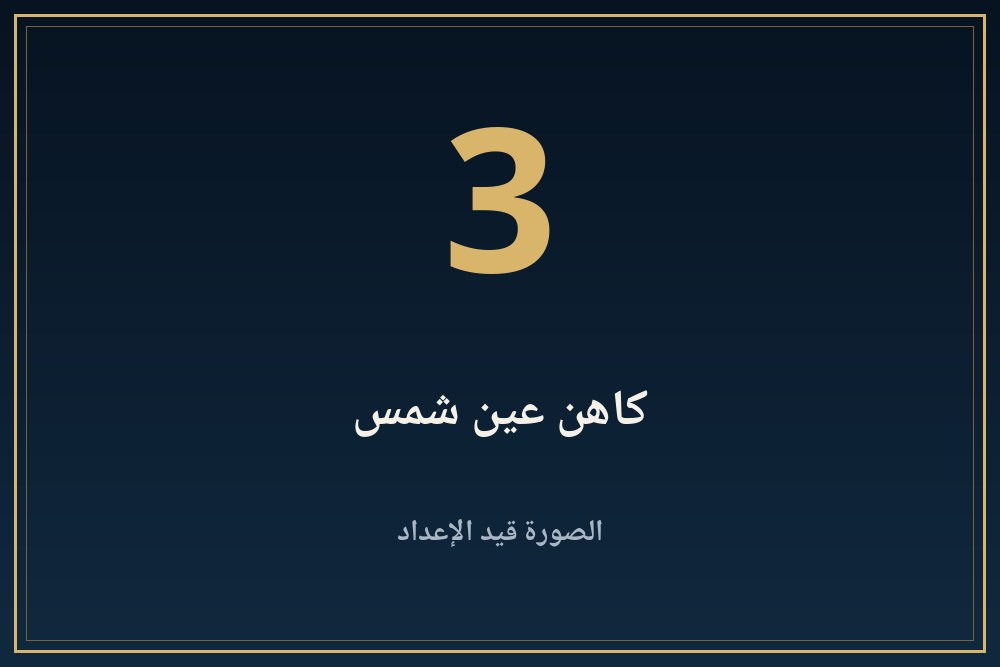
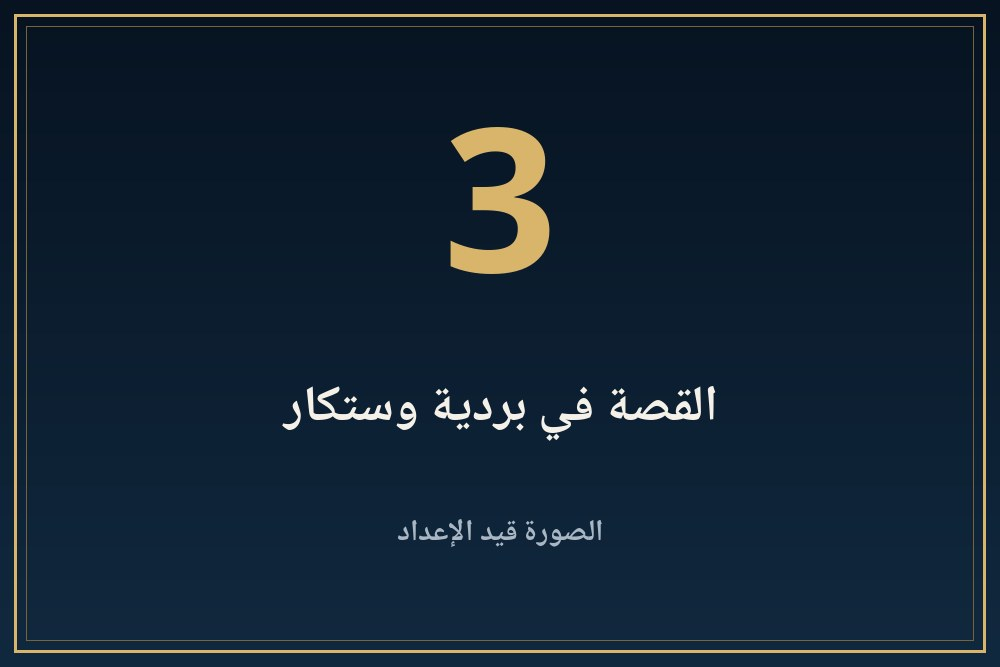
King 024: rebuilt from updated content (placeholders, audio pending)

Changed region(s): [[0.279, 0.5697, 0.713, 0.6597]]

diff --git a/kings/024-awsrkaf/index.html b/kings/024-awsrkaf/index.html
@@ -324,7 +324,7 @@ html[dir=ltr] #panav.open,#pash[dir=ltr] #panav.open{border-right:0!important;bo
 <div class="row"><span class="bdg v">موثّق</span><span>مذكور في مصدر مرقّم يمكن فتحه من قسم المراجع.</span></div>
 <div class="row"><span class="bdg d">محل خلاف</span><span>الصفحة نفسها تذكر أن الباحثين أو المصادر مختلفون فيه.</span></div>
 <div class="row"><span class="bdg u">لم يُتحقق منه</span><span>الصفحة تذكر أنه من مصدر واحد ولم يُتحقق منه في مصدر ثانٍ.</span></div></div>
-<div class="band" aria-hidden="true"></div><details class="acc k1" id="s1"><summary><img class="bnr" src="banners/b01.jpg?v=1" alt="" width="1000" height="667"><span class="n">1</span><span class="t">من هو وسركاف؟</span><span class="ch"></span></summary><div class="body"><button class="lbtn" type="button" disabled aria-disabled="true" style="opacity:.55;cursor:default"><svg viewBox="0 0 24 24" fill="currentColor" aria-hidden="true"><path d="M7 4.5v15a1 1 0 001.5.86l12-7.5a1 1 0 000-1.72l-12-7.5A1 1 0 007 4.5z"/></svg><span>التعليق الصوتي قريبًا</span></button><p><span class="bdg v">موثّق</span> يقول سليم حسن (ج1 ص251) إن الأسرة الخامسة نشأت من نفوذ كهنة عين شمس، وإن خنتكاوس ابنة منكاورع ادعت الملك بصفتها ابنة ملك وتزوجت من علية القوم ورزقت وسركاف. ويقول (ص253-254) إن المعلومات عنه قليلة خارج بردية وستكار، وإنه حكم نحو سبع سنين.<sup><a href="#r1">[1]</a></sup></p></div></details><details class="acc k2" id="s2"><summary><img class="bnr" src="banners/b02.jpg?v=1" alt="" loading="lazy" width="1000" height="667"><span class="n">2</span><span class="t">رأس الجرانيت الوردي</span><span class="ch"></span></summary><div class="body"><button class="lbtn" type="button" disabled aria-disabled="true" style="opacity:.55;cursor:default"><svg viewBox="0 0 24 24" fill="currentColor" aria-hidden="true"><path d="M7 4.5v15a1 1 0 001.5.86l12-7.5a1 1 0 000-1.72l-12-7.5A1 1 0 007 4.5z"/></svg><span>التعليق الصوتي قريبًا</span></button><p><span class="bdg v">موثّق</span> يقول سليم حسن (ص253-254) إن رأسا ضخما من الجرانيت الوردي وُجد في سقارة هو «المثل الوحيد لتمثال أكبر من الطبيعة في الدولة القديمة».<sup><a href="#r1">[1]</a></sup></p></div></details><details class="acc k3" id="s3"><summary><img class="bnr" src="banners/b03.jpg?v=1" alt="" loading="lazy" width="1000" height="667"><span class="n">3</span><span class="t">كاهن عين شمس</span><span class="ch"></span></summary><div class="body"><button class="lbtn" type="button" disabled aria-disabled="true" style="opacity:.55;cursor:default"><svg viewBox="0 0 24 24" fill="currentColor" aria-hidden="true"><path d="M7 4.5v15a1 1 0 001.5.86l12-7.5a1 1 0 000-1.72l-12-7.5A1 1 0 007 4.5z"/></svg><span>التعليق الصوتي قريبًا</span></button><p><span class="bdg d">محل خلاف</span> يذكر سليم حسن (ص253-254) أنه كان كاهنا أعلى لعين شمس وأن حجر بالرمو يسجل أنه وهب أراضي لمعبد رع وقرابين الأعياد، وبنى محرابا في بوتو. وهذا ما قرأناه عنده وحده.<sup><a href="#r1">[1]</a></sup></p></div></details><details class="acc k4" id="s4"><summary><img class="bnr" src="banners/b04.jpg?v=1" alt="" loading="lazy" width="1000" height="667"><span class="n">4</span><span class="t">وصية نكعنخ</span><span class="ch"></span></summary><div class="body"><button class="lbtn" type="button" disabled aria-disabled="true" style="opacity:.55;cursor:default"><svg viewBox="0 0 24 24" fill="currentColor" aria-hidden="true"><path d="M7 4.5v15a1 1 0 001.5.86l12-7.5a1 1 0 000-1.72l-12-7.5A1 1 0 007 4.5z"/></svg><span>التعليق الصوتي قريبًا</span></button><p><span class="bdg v">موثّق</span> يذكر سليم حسن (ص253-254) نقش نكعنخ، كاهن حتحور، ووصيته بتقسيم المنح بين أحد عشر فردا من أسرته.<sup><a href="#r1">[1]</a></sup></p></div></details><details class="acc k1" id="s5"><summary><img class="bnr" src="banners/b05.jpg?v=1" alt="" loading="lazy" width="1000" height="667"><span class="n">5</span><span class="t">أصل الأسرة: من قال ماذا؟</span><span class="ch"></span></summary><div class="body"><button class="lbtn" type="button" disabled aria-disabled="true" style="opacity:.55;cursor:default"><svg viewBox="0 0 24 24" fill="currentColor" aria-hidden="true"><path d="M7 4.5v15a1 1 0 001.5.86l12-7.5a1 1 0 000-1.72l-12-7.5A1 1 0 007 4.5z"/></svg><span>التعليق الصوتي قريبًا</span></button><p><span class="bdg d">محل خلاف</span> أصل الأسرة الخامسة وعلاقتها بخنتكاوس: سليم حسن (ص251) ينسب وسركاف لخنتكاوس. ويقول صالح (ص199) إن لقب خنتكاوس «أم ملك الصعيد والدلتا». فلا يوجد نص قرأناه يحسم الأمر.<sup><a href="#r1">[1]</a><a href="#r2">[2]</a></sup></p></div></details><details class="acc k2" id="s6"><summary><img class="bnr" src="banners/b06.jpg?v=1" alt="" loading="lazy" width="1000" height="667"><span class="n">6</span><span class="t">ما لا نعرفه</span><span class="ch"></span></summary><div class="body"><button class="lbtn" type="button" disabled aria-disabled="true" style="opacity:.55;cursor:default"><svg viewBox="0 0 24 24" fill="currentColor" aria-hidden="true"><path d="M7 4.5v15a1 1 0 001.5.86l12-7.5a1 1 0 000-1.72l-12-7.5A1 1 0 007 4.5z"/></svg><span>التعليق الصوتي قريبًا</span></button><p><span class="bdg u">لم يُتحقق منه</span> لا نعرف تفاصيل هرمه ولا أحداث عهده ولا مكان معبد الشمس الذي نُسب إليه في المصادر التي قرأناها.</p></div></details><details class="acc k4" id="refs"><summary><img class="bnr" src="banners/b07.jpg?v=1" alt="" loading="lazy" width="1000" height="667"><span class="n">7</span><span class="t">المراجع</span><span class="ch"></span></summary><div class="body"><button class="lbtn" type="button" disabled aria-disabled="true" style="opacity:.55;cursor:default"><svg viewBox="0 0 24 24" fill="currentColor" aria-hidden="true"><path d="M7 4.5v15a1 1 0 001.5.86l12-7.5a1 1 0 000-1.72l-12-7.5A1 1 0 007 4.5z"/></svg><span>التعليق الصوتي قريبًا</span></button><p><b>مصادر فتحتُ صفحاتها وقرأتها:</b></p><ol><li id="r1" dir="auto">سليم حسن، موسوعة مصر القديمة، ج1، الفصل 15: <a dir="ltr" style="display:inline-block;overflow-wrap:anywhere" href="https://archive.org/details/20201104_20201104_1559" rel="noopener" target="_blank">archive.org/details/20201104_20201104_1559</a></li><li id="r2" dir="auto">عبد العزيز صالح، الشرق الأدنى القديم ج1 (مصر والعراق)، أرقام صفحات PDF: <a dir="ltr" style="display:inline-block;overflow-wrap:anywhere" href="https://archive.org/details/20210510_20210510_0037" rel="noopener" target="_blank">archive.org/details/20210510_20210510_0037</a></li></ol></div></details></article><aside class="abt" aria-label="عن هذه الصفحة"><h3>عن هذه الصفحة</h3><ul><li><b>المحتوى</b><span>جزء من موسوعة بر عنخ التعليمية. التواريخ والتفسيرات وفق المراجع المتاحة، وقد تختلف التفاصيل بين الدراسات.</span></li><li><b>الصور</b><span>صور هذه الصفحة أماكن حجز مؤقتة إلى أن تُضاف الصور الفنية.</span></li><li><b>الصوت</b><span>التعليق الصوتي قيد الإعداد.</span></li></ul></aside><a class="back" href="/kings/">← تصفح المزيد</a><a class="back" href="/">العودة إلى الرئيسية</a><dialog id="lb"><img alt=""><p></p><button type="button">إغلاق</button></dialog>
+<div class="band" aria-hidden="true"></div><details class="acc k1" id="s1"><summary><img class="bnr" src="banners/b01.jpg?v=1" alt="" width="1000" height="667"><span class="n">1</span><span class="t">من هو وسركاف؟</span><span class="ch"></span></summary><div class="body"><button class="lbtn" type="button" disabled aria-disabled="true" style="opacity:.55;cursor:default"><svg viewBox="0 0 24 24" fill="currentColor" aria-hidden="true"><path d="M7 4.5v15a1 1 0 001.5.86l12-7.5a1 1 0 000-1.72l-12-7.5A1 1 0 007 4.5z"/></svg><span>التعليق الصوتي قريبًا</span></button><p><span class="bdg v">موثّق</span> يقول صالح (ص199 و201) إن وسركاف صار رأس أسرة حاكمة جديدة، وإن خنتكاوس شاركت في وراثة العرش. ويقول كتاب الميت (ص32) إن اسمه الحوري «إري ماعت» أي «صانع النظام» واسم الملك وسركاف أي «قوي كاؤه»، وإنه استعمل لقب «ابن رع» رغم أن اسم رع لا يرد في اسمه. ويقول سليم حسن إنه حكم نحو سبع سنين (ص253-254).<sup><a href="#r1">[1]</a><a href="#r2">[2]</a><a href="#r4">[4]</a></sup></p></div></details><details class="acc k2" id="s2"><summary><img class="bnr" src="banners/b02.jpg?v=1" alt="" loading="lazy" width="1000" height="667"><span class="n">2</span><span class="t">أسرته: من قال ماذا؟</span><span class="ch"></span></summary><div class="body"><button class="lbtn" type="button" disabled aria-disabled="true" style="opacity:.55;cursor:default"><svg viewBox="0 0 24 24" fill="currentColor" aria-hidden="true"><path d="M7 4.5v15a1 1 0 001.5.86l12-7.5a1 1 0 000-1.72l-12-7.5A1 1 0 007 4.5z"/></svg><span>التعليق الصوتي قريبًا</span></button><p><span class="bdg d">محل خلاف</span> يقول صالح (ص201) إن وسركاف، فيما يعتقد باحث اسمه مشوه في نسختنا (جردسلوف؟)، أمير حفيد لددف رع، ورث الإمارة عن أمه نفر حوتبس بنت ددف رع، وتزوج خنتكاوس فانتفع بشرعيتها. ويقول يونكر، كما ينقل صالح (ص199)، إن خنتكاوس هي التي انحدرت من سلالة ددف رع. أما كتاب الميت (ص32) فيقول إن منكاورع أنجب خليفتيه شبسسكاف ووسركاف من زوجته الأولى، وإن له ولدين آخرين هما ساحورع ونفر إر كا رع، أمهما خنتكاوس. فنسب وسركاف متضارب بين المصادر، ولا نحسمه.<sup><a href="#r2">[2]</a><a href="#r4">[4]</a></sup></p></div></details><details class="acc k3" id="s3"><summary><img class="bnr" src="banners/b03.jpg?v=1" alt="" loading="lazy" width="1000" height="667"><span class="n">3</span><span class="t">القصة في بردية وستكار</span><span class="ch"></span></summary><div class="body"><button class="lbtn" type="button" disabled aria-disabled="true" style="opacity:.55;cursor:default"><svg viewBox="0 0 24 24" fill="currentColor" aria-hidden="true"><path d="M7 4.5v15a1 1 0 001.5.86l12-7.5a1 1 0 000-1.72l-12-7.5A1 1 0 007 4.5z"/></svg><span>التعليق الصوتي قريبًا</span></button><p><span class="bdg v">موثّق</span> يقول كتاب الميت (ص32) إن القصة الوحيدة عن الانتقال من الأسرة الرابعة إلى الخامسة في بردية وستكار، وفيها أن الساحر جدي تنبأ لخوفو بأن أحفاده سيُزاحون بأسرة جديدة ذات أصل مقدس، وأن أم أول ثلاثة ملوك فيها زوجة كاهن لرع. ويقول صالح (ص202) إن ملوك الأسرة الأوائل لم يكتفوا بحق الحكم بالزواج، بل نسبوا أنفسهم إلى أصل مقدس قديم بدعاية سجّلتها نسخة من الدولة الوسطى. فالقصة دعاية أسرة لا وثيقة معاصرة.<sup><a href="#r2">[2]</a><a href="#r4">[4]</a></sup></p></div></details><details class="acc k4" id="s4"><summary><img class="bnr" src="banners/b04.jpg?v=1" alt="" loading="lazy" width="1000" height="667"><span class="n">4</span><span class="t">معبد الشمس</span><span class="ch"></span></summary><div class="body"><button class="lbtn" type="button" disabled aria-disabled="true" style="opacity:.55;cursor:default"><svg viewBox="0 0 24 24" fill="currentColor" aria-hidden="true"><path d="M7 4.5v15a1 1 0 001.5.86l12-7.5a1 1 0 000-1.72l-12-7.5A1 1 0 007 4.5z"/></svg><span>التعليق الصوتي قريبًا</span></button><p><span class="bdg v">موثّق</span> يقول كتاب الميت (ص32) إن أعظم إنجازاته نوع جديد من المباني هو معبد الشمس، قرب أبو صير، فيه مسلة ضخمة من الكتل على قاعدة هرمية مبتورة. ويقول صالح (ص203) إنه بدأ المعابد الستة التي بنتها الأسرة على مثال معبد عين شمس، وإنه بنى معبده متواضعا من اللبن في منطقة أبو غراب جنوبي الجيزة، وليس في عين شمس، وأن السبب غير معروف.<sup><a href="#r2">[2]</a><a href="#r4">[4]</a></sup></p></div></details><details class="acc k1" id="s5"><summary><img class="bnr" src="banners/b05.jpg?v=1" alt="" loading="lazy" width="1000" height="667"><span class="n">5</span><span class="t">الهرم والمعبدان في سقارة</span><span class="ch"></span></summary><div class="body"><button class="lbtn" type="button" disabled aria-disabled="true" style="opacity:.55;cursor:default"><svg viewBox="0 0 24 24" fill="currentColor" aria-hidden="true"><path d="M7 4.5v15a1 1 0 001.5.86l12-7.5a1 1 0 000-1.72l-12-7.5A1 1 0 007 4.5z"/></svg><span>التعليق الصوتي قريبًا</span></button><p><span class="bdg v">موثّق</span> يقول صالح (ص203) إنه بنى هرمه ومعبديه جنوبي سقارة، وتهدم جزء كبير منها، وبقيت من صور الطيور والزهور على جدران معبد الشعائر ما ينم عن «يد فنية مثبتة وإحساس مرهف بجمال الطبيعة». ويقول كتاب الميت (ص32) إن مجموعته الجنائزية في سقارة قرب هرم زوسر.<sup><a href="#r2">[2]</a><a href="#r4">[4]</a></sup></p></div></details><details class="acc k2" id="s6"><summary><img class="bnr" src="banners/b06.jpg?v=1" alt="" loading="lazy" width="1000" height="667"><span class="n">6</span><span class="t">الرأس الجرانيتية الضخمة</span><span class="ch"></span></summary><div class="body"><button class="lbtn" type="button" disabled aria-disabled="true" style="opacity:.55;cursor:default"><svg viewBox="0 0 24 24" fill="currentColor" aria-hidden="true"><path d="M7 4.5v15a1 1 0 001.5.86l12-7.5a1 1 0 000-1.72l-12-7.5A1 1 0 007 4.5z"/></svg><span>التعليق الصوتي قريبًا</span></button><p><span class="bdg v">موثّق</span> يقول صالح (ص203) إن رأسا ضخمة رائعة من الجرانيت يُظن أنها كانت لتمثال كامل لا يقل ارتفاعه عن خمسة أمتار إن صح الظن، وإن ضخامة التماثيل كانت تُؤثر عمدا لمؤسسي الأسر مثل زوسر وأمنمحات الأول، دعاية لعظيم شأنهم.<sup><a href="#r2">[2]</a></sup></p></div></details><details class="acc k3" id="s7"><summary><img class="bnr" src="banners/b07.jpg?v=1" alt="" loading="lazy" width="1000" height="667"><span class="n">7</span><span class="t">النفوذ خارج مصر</span><span class="ch"></span></summary><div class="body"><button class="lbtn" type="button" disabled aria-disabled="true" style="opacity:.55;cursor:default"><svg viewBox="0 0 24 24" fill="currentColor" aria-hidden="true"><path d="M7 4.5v15a1 1 0 001.5.86l12-7.5a1 1 0 000-1.72l-12-7.5A1 1 0 007 4.5z"/></svg><span>التعليق الصوتي قريبًا</span></button><p><span class="bdg v">موثّق</span> يقول كتاب الميت (ص32) إنه أتم معابد في مصر العليا وروّج لعبادة حتحور، وإن أختاما بخرطوشه اكتُشفت في النوبة.<sup><a href="#r4">[4]</a></sup></p></div></details><details class="acc k4" id="s8"><summary><img class="bnr" src="banners/b08.jpg?v=1" alt="" loading="lazy" width="1000" height="667"><span class="n">8</span><span class="t">أهرام خلفائه</span><span class="ch"></span></summary><div class="body"><button class="lbtn" type="button" disabled aria-disabled="true" style="opacity:.55;cursor:default"><svg viewBox="0 0 24 24" fill="currentColor" aria-hidden="true"><path d="M7 4.5v15a1 1 0 001.5.86l12-7.5a1 1 0 000-1.72l-12-7.5A1 1 0 007 4.5z"/></svg><span>التعليق الصوتي قريبًا</span></button><p><span class="bdg v">موثّق</span> يقول صالح (ص203) إن أغلب خلفائه بنوا أهرامهم ومعابدها في أبو صير، على بعد نحو ميل من أبو غراب. ويقول نور الدين (ص215) إن الأهرام استمرت في الأسرة الخامسة لكنها «فقيرة في بنائها» قياسا بأهرام الأسرة الرابعة.<sup><a href="#r2">[2]</a><a href="#r3">[3]</a></sup></p></div></details><details class="acc k1" id="s9"><summary><img class="bnr" src="banners/b09.jpg?v=1" alt="" loading="lazy" width="1000" height="667"><span class="n">9</span><span class="t">ما لا نعرفه</span><span class="ch"></span></summary><div class="body"><button class="lbtn" type="button" disabled aria-disabled="true" style="opacity:.55;cursor:default"><svg viewBox="0 0 24 24" fill="currentColor" aria-hidden="true"><path d="M7 4.5v15a1 1 0 001.5.86l12-7.5a1 1 0 000-1.72l-12-7.5A1 1 0 007 4.5z"/></svg><span>التعليق الصوتي قريبًا</span></button><p><span class="bdg u">لم يُتحقق منه</span> لا نعرف بيقين مدة حكمه (سبع سنين عند سليم حسن، ولم نقرأ رقما موثقا عند غيره)، ولا سبب بنائه معبد الشمس بعيدا عن عين شمس. وتواريخ قائمة نور الدين (ص714) مشوهة في نسختنا فلا نذكرها.</p></div></details><details class="acc k4" id="refs"><summary><img class="bnr" src="banners/b10.jpg?v=1" alt="" loading="lazy" width="1000" height="667"><span class="n">10</span><span class="t">المراجع</span><span class="ch"></span></summary><div class="body"><button class="lbtn" type="button" disabled aria-disabled="true" style="opacity:.55;cursor:default"><svg viewBox="0 0 24 24" fill="currentColor" aria-hidden="true"><path d="M7 4.5v15a1 1 0 001.5.86l12-7.5a1 1 0 000-1.72l-12-7.5A1 1 0 007 4.5z"/></svg><span>التعليق الصوتي قريبًا</span></button><p><b>مصادر فتحتُ صفحاتها وقرأتها:</b></p><ol><li id="r1" dir="auto">سليم حسن، موسوعة مصر القديمة، ج1، الفصل 15: <a dir="ltr" style="display:inline-block;overflow-wrap:anywhere" href="https://archive.org/details/20201104_20201104_1559" rel="noopener" target="_blank">archive.org/details/20201104_20201104_1559</a></li><li id="r2" dir="auto">عبد العزيز صالح، الشرق الأدنى القديم ج1 (مصر والعراق)، أرقام صفحات PDF: <a dir="ltr" style="display:inline-block;overflow-wrap:anywhere" href="https://archive.org/details/20210510_20210510_0037" rel="noopener" target="_blank">archive.org/details/20210510_20210510_0037</a></li><li id="r3" dir="auto">عبد الحليم نور الدين، آثار وحضارة مصر القديمة ج1، أرقام صفحات PDF: <a dir="ltr" style="display:inline-block;overflow-wrap:anywhere" href="https://archive.org/details/AAlexandrina-117303" rel="noopener" target="_blank">archive.org/details/AAlexandrina-117303</a></li><li id="r4" dir="auto">The Metropolitan Museum of Art, Egyptian Art in the Age of the Pyramids, 1999 (فصول كوزلوف وأرنولد وزيجلر وجريمال): <a dir="ltr" style="display:inline-block;overflow-wrap:anywhere" href="https://www.metmuseum.org/met-publications/egyptian-art-in-the-age-of-the-pyramids" rel="noopener" target="_blank">www.metmuseum.org/met-publications/egyptian-art-in-the-age-of-the-pyramids</a></li></ol></div></details></article><aside class="abt" aria-label="عن هذه الصفحة"><h3>عن هذه الصفحة</h3><ul><li><b>المحتوى</b><span>جزء من موسوعة بر عنخ التعليمية. التواريخ والتفسيرات وفق المراجع المتاحة، وقد تختلف التفاصيل بين الدراسات.</span></li><li><b>الصور</b><span>صور هذه الصفحة أماكن حجز مؤقتة إلى أن تُضاف الصور الفنية.</span></li><li><b>الصوت</b><span>التعليق الصوتي قيد الإعداد.</span></li></ul></aside><a class="back" href="/kings/">← تصفح المزيد</a><a class="back" href="/">العودة إلى الرئيسية</a><dialog id="lb"><img alt=""><p></p><button type="button">إغلاق</button></dialog>
 <script>(function(){var A=function(){return document.querySelectorAll("details.acc")};
 document.getElementById("all").onclick=function(){A().forEach(function(d){d.open=true})};
 document.getElementById("none").onclick=function(){A().forEach(function(d){d.open=false})};
@@ -332,7 +332,7 @@ function go(h){var e=h&&document.getElementById(h.slice(1));if(!e)return;var d=e
 document.addEventListener("click",function(e){var a=e.target.closest&&e.target.closest('a[href^="#"]');if(a){go(a.getAttribute("href"))}});
 if(location.hash)go(location.hash);
 var d=document.getElementById("lb");if(!d||!d.showModal)return;var im=d.querySelector("img"),p=d.querySelector("p");document.addEventListener("click",function(e){var t=e.target;if(t.tagName=="IMG"&&t.closest(".fig")){im.src=t.src;im.alt=t.alt;p.textContent=t.closest("figure").querySelector("figcaption").innerText;d.showModal()}else if(t==d||t.tagName=="BUTTON"&&d.contains(t)){d.close()}})})();</script><div class="pbar" id="pbar"></div><div class="pl" id="pl" role="region" aria-label="مشغّل الاستماع"><div class="in"><button class="pp" id="pp" type="button" aria-label="تشغيل"><svg viewBox="0 0 24 24" fill="currentColor" aria-hidden="true"><path d="M7 4.5v15a1 1 0 001.5.86l12-7.5a1 1 0 000-1.72l-12-7.5A1 1 0 007 4.5z"/></svg></button><div class="mid"><div class="ttl"><span id="tt">استماع</span> <i>صوت اصطناعي</i></div><input id="sk" type="range" min="0" max="1000" value="0" aria-label="موضع التشغيل"><div class="tm"><span id="cur">0:00</span><span id="dur">0:00</span></div></div><div class="ex"><button id="bk" type="button" aria-label="رجوع 10 ثوانٍ">−10</button><button id="fw" type="button" aria-label="تقدم 10 ثوانٍ">+10</button><button id="sp" class="sp" type="button" aria-label="سرعة التشغيل">1×</button><button id="cl" type="button" aria-label="إغلاق المشغّل">✕</button></div><p class="err" id="er" role="alert" hidden>تعذر تحميل الملف الصوتي. حاول لاحقًا.</p></div><div aria-live="polite" id="st" style="position:absolute;left:-9999px"></div><audio id="au" preload="none"></audio></div></main><script>(function(){
-var S={"s1": ["من هو وسركاف؟", 1], "s2": ["رأس الجرانيت الوردي", 1], "s3": ["كاهن عين شمس", 1], "s4": ["وصية نكعنخ", 1], "s5": ["أصل الأسرة: من قال ماذا؟", 1], "s6": ["ما لا نعرفه", 1], "refs": ["المراجع", 1]},$=function(i){return document.getElementById(i)},au=$("au"),pl=$("pl"),pp=$("pp"),sk=$("sk"),P="<svg viewBox=\"0 0 24 24\" fill=\"currentColor\" aria-hidden=\"true\"><path d=\"M7 4.5v15a1 1 0 001.5.86l12-7.5a1 1 0 000-1.72l-12-7.5A1 1 0 007 4.5z\"/></svg>",Q="<svg viewBox=\"0 0 24 24\" fill=\"currentColor\" aria-hidden=\"true\"><rect x=\"5.5\" y=\"4\" width=\"4.5\" height=\"16\" rx=\"1.2\"/><rect x=\"14\" y=\"4\" width=\"4.5\" height=\"16\" rx=\"1.2\"/></svg>",cur=null,part=1,seeking=false;
+var S={"s1": ["من هو وسركاف؟", 1], "s2": ["أسرته: من قال ماذا؟", 1], "s3": ["القصة في بردية وستكار", 1], "s4": ["معبد الشمس", 1], "s5": ["الهرم والمعبدان في سقارة", 1], "s6": ["الرأس الجرانيتية الضخمة", 1], "s7": ["النفوذ خارج مصر", 1], "s8": ["أهرام خلفائه", 1], "s9": ["ما لا نعرفه", 1], "refs": ["المراجع", 1]},$=function(i){return document.getElementById(i)},au=$("au"),pl=$("pl"),pp=$("pp"),sk=$("sk"),P="<svg viewBox=\"0 0 24 24\" fill=\"currentColor\" aria-hidden=\"true\"><path d=\"M7 4.5v15a1 1 0 001.5.86l12-7.5a1 1 0 000-1.72l-12-7.5A1 1 0 007 4.5z\"/></svg>",Q="<svg viewBox=\"0 0 24 24\" fill=\"currentColor\" aria-hidden=\"true\"><rect x=\"5.5\" y=\"4\" width=\"4.5\" height=\"16\" rx=\"1.2\"/><rect x=\"14\" y=\"4\" width=\"4.5\" height=\"16\" rx=\"1.2\"/></svg>",cur=null,part=1,seeking=false;
 function fmt(t){if(!isFinite(t))return"0:00";var m=Math.floor(t/60),s=Math.floor(t%60);return m+":"+(s<10?"0":"")+s}
 function btns(){document.querySelectorAll(".lbtn").forEach(function(b){var on=b.dataset.s===cur&&!au.paused;b.classList.toggle("on",on);b.querySelector("span").textContent=on?"إيقاف مؤقت":(b.dataset.s===cur&&au.currentTime>1?"أكمل الاستماع":"استمع لهذا القسم");b.querySelector("svg").outerHTML=on?Q:P})}
 function ui(){var pa=au.paused;pp.innerHTML=pa?P:Q;pp.setAttribute("aria-label",pa?"تشغيل":"إيقاف مؤقت");btns()}
